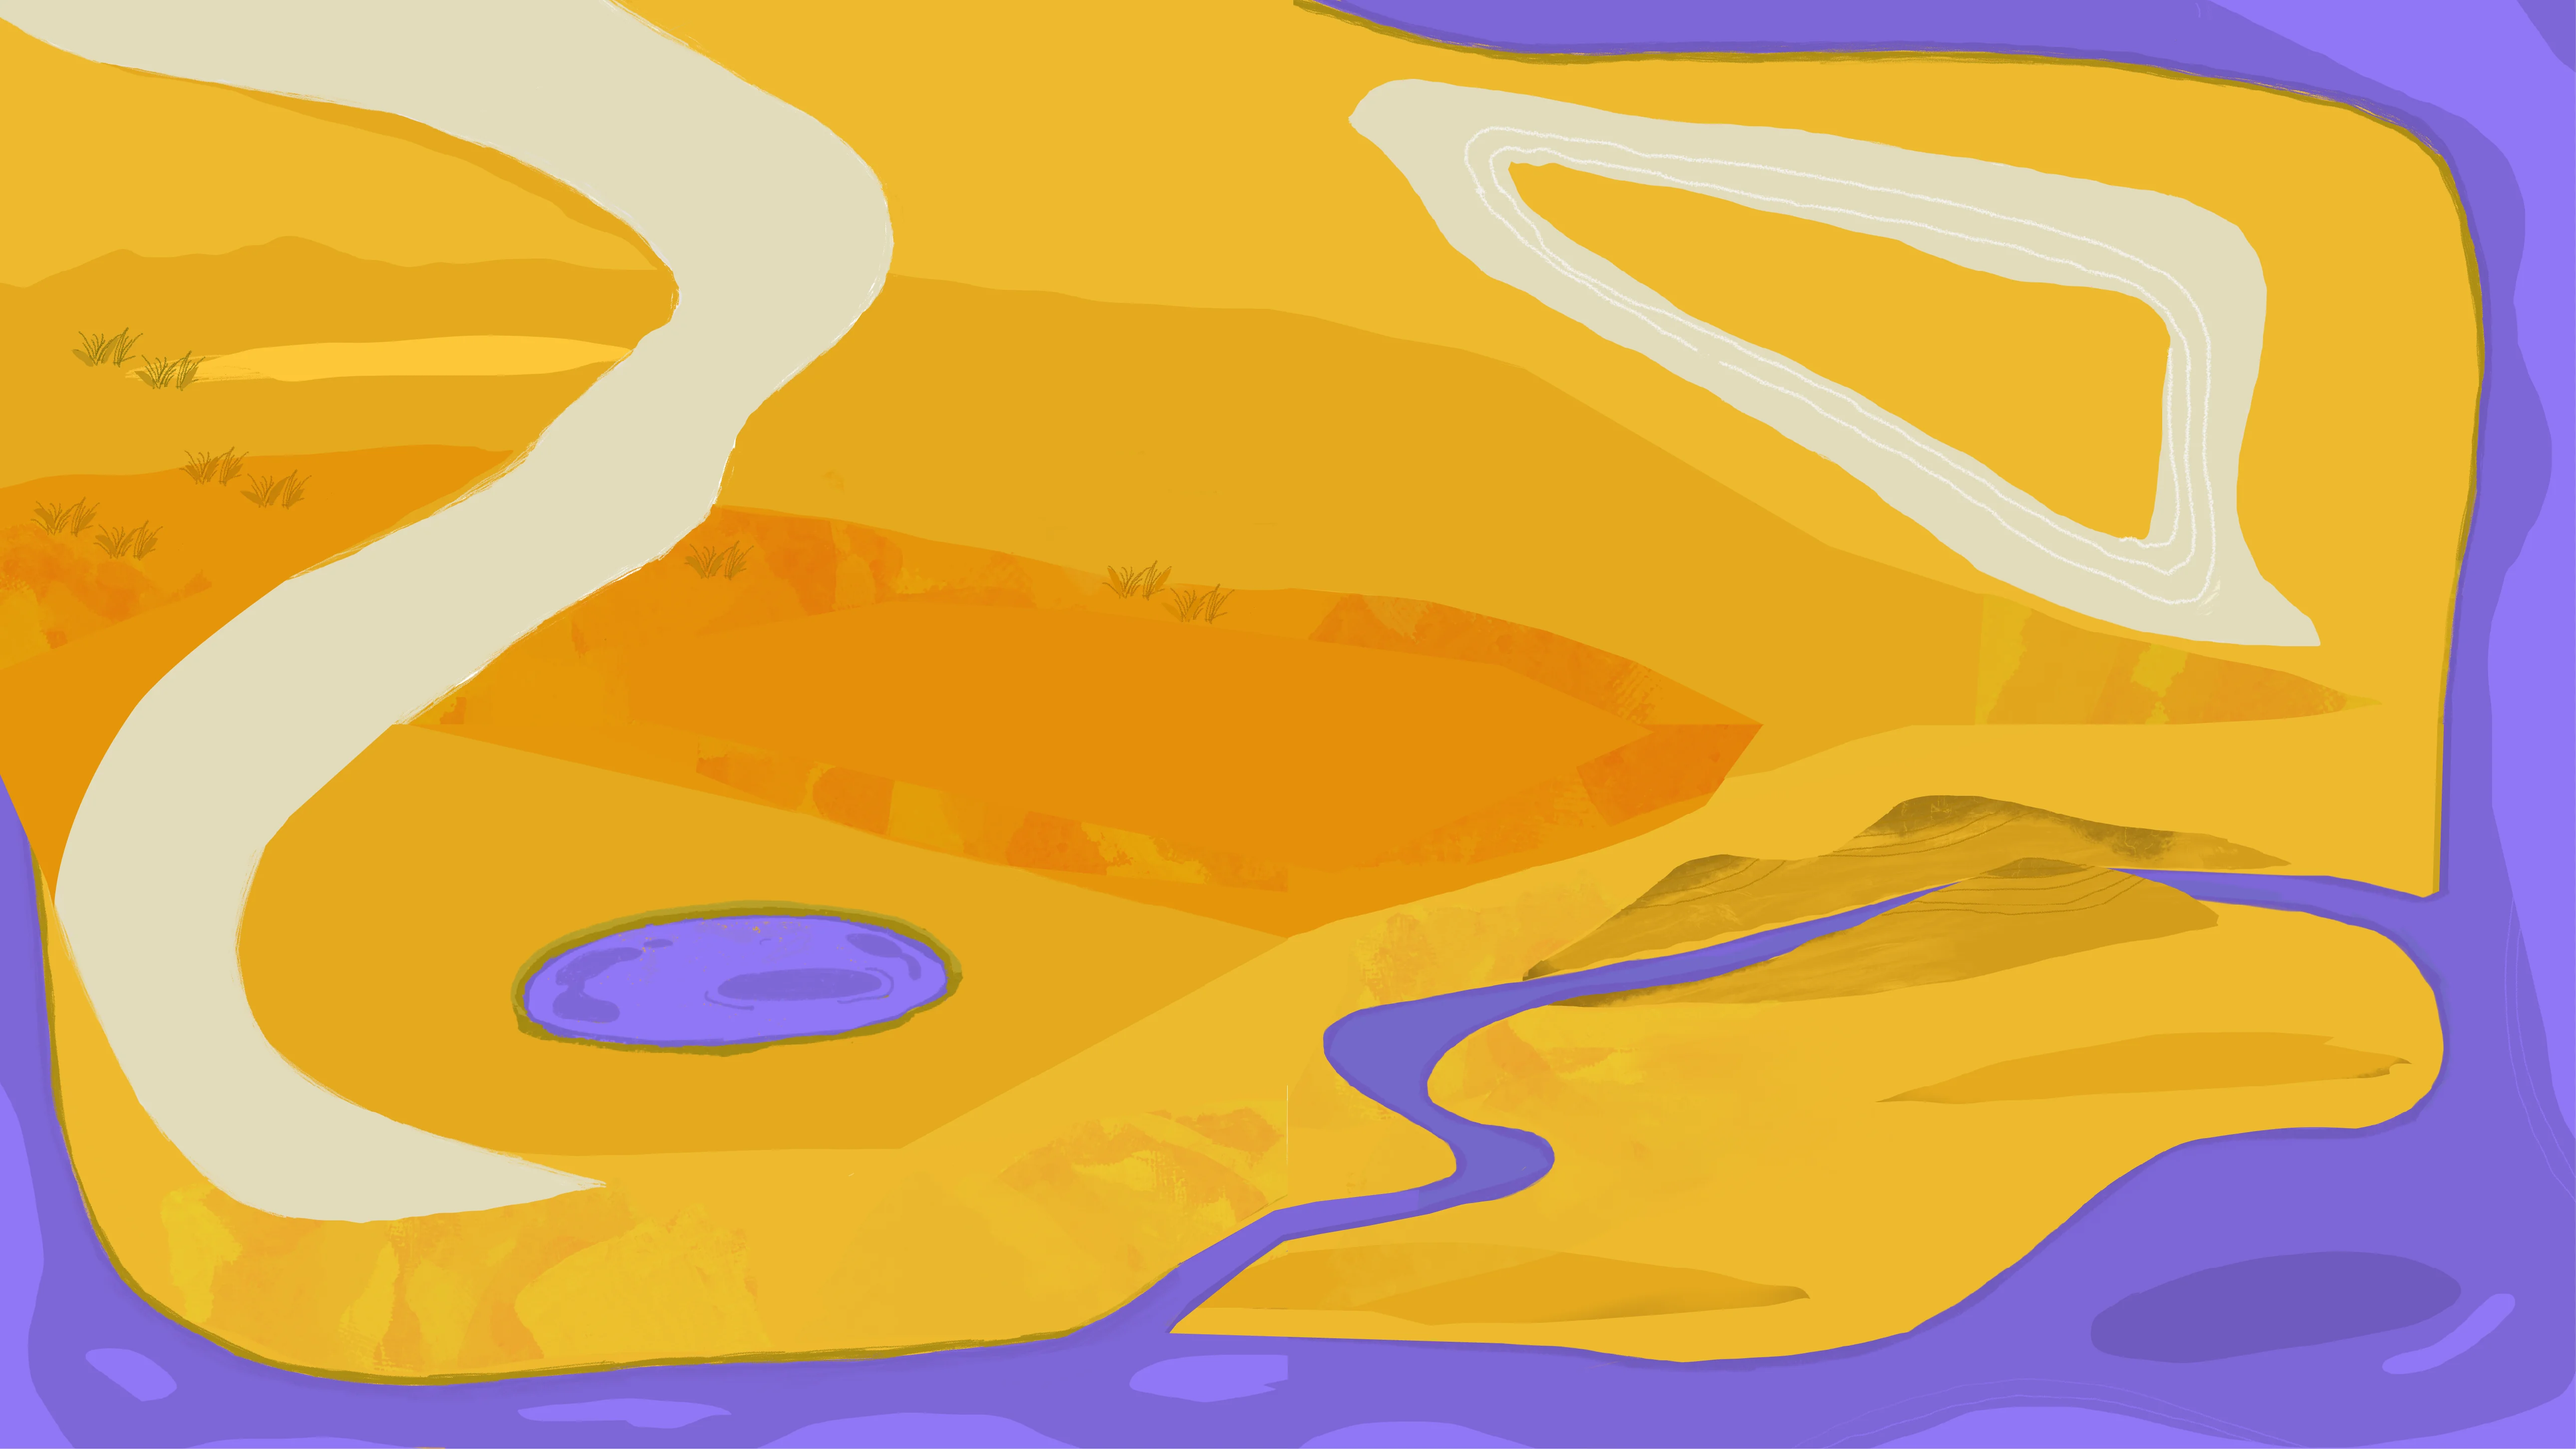
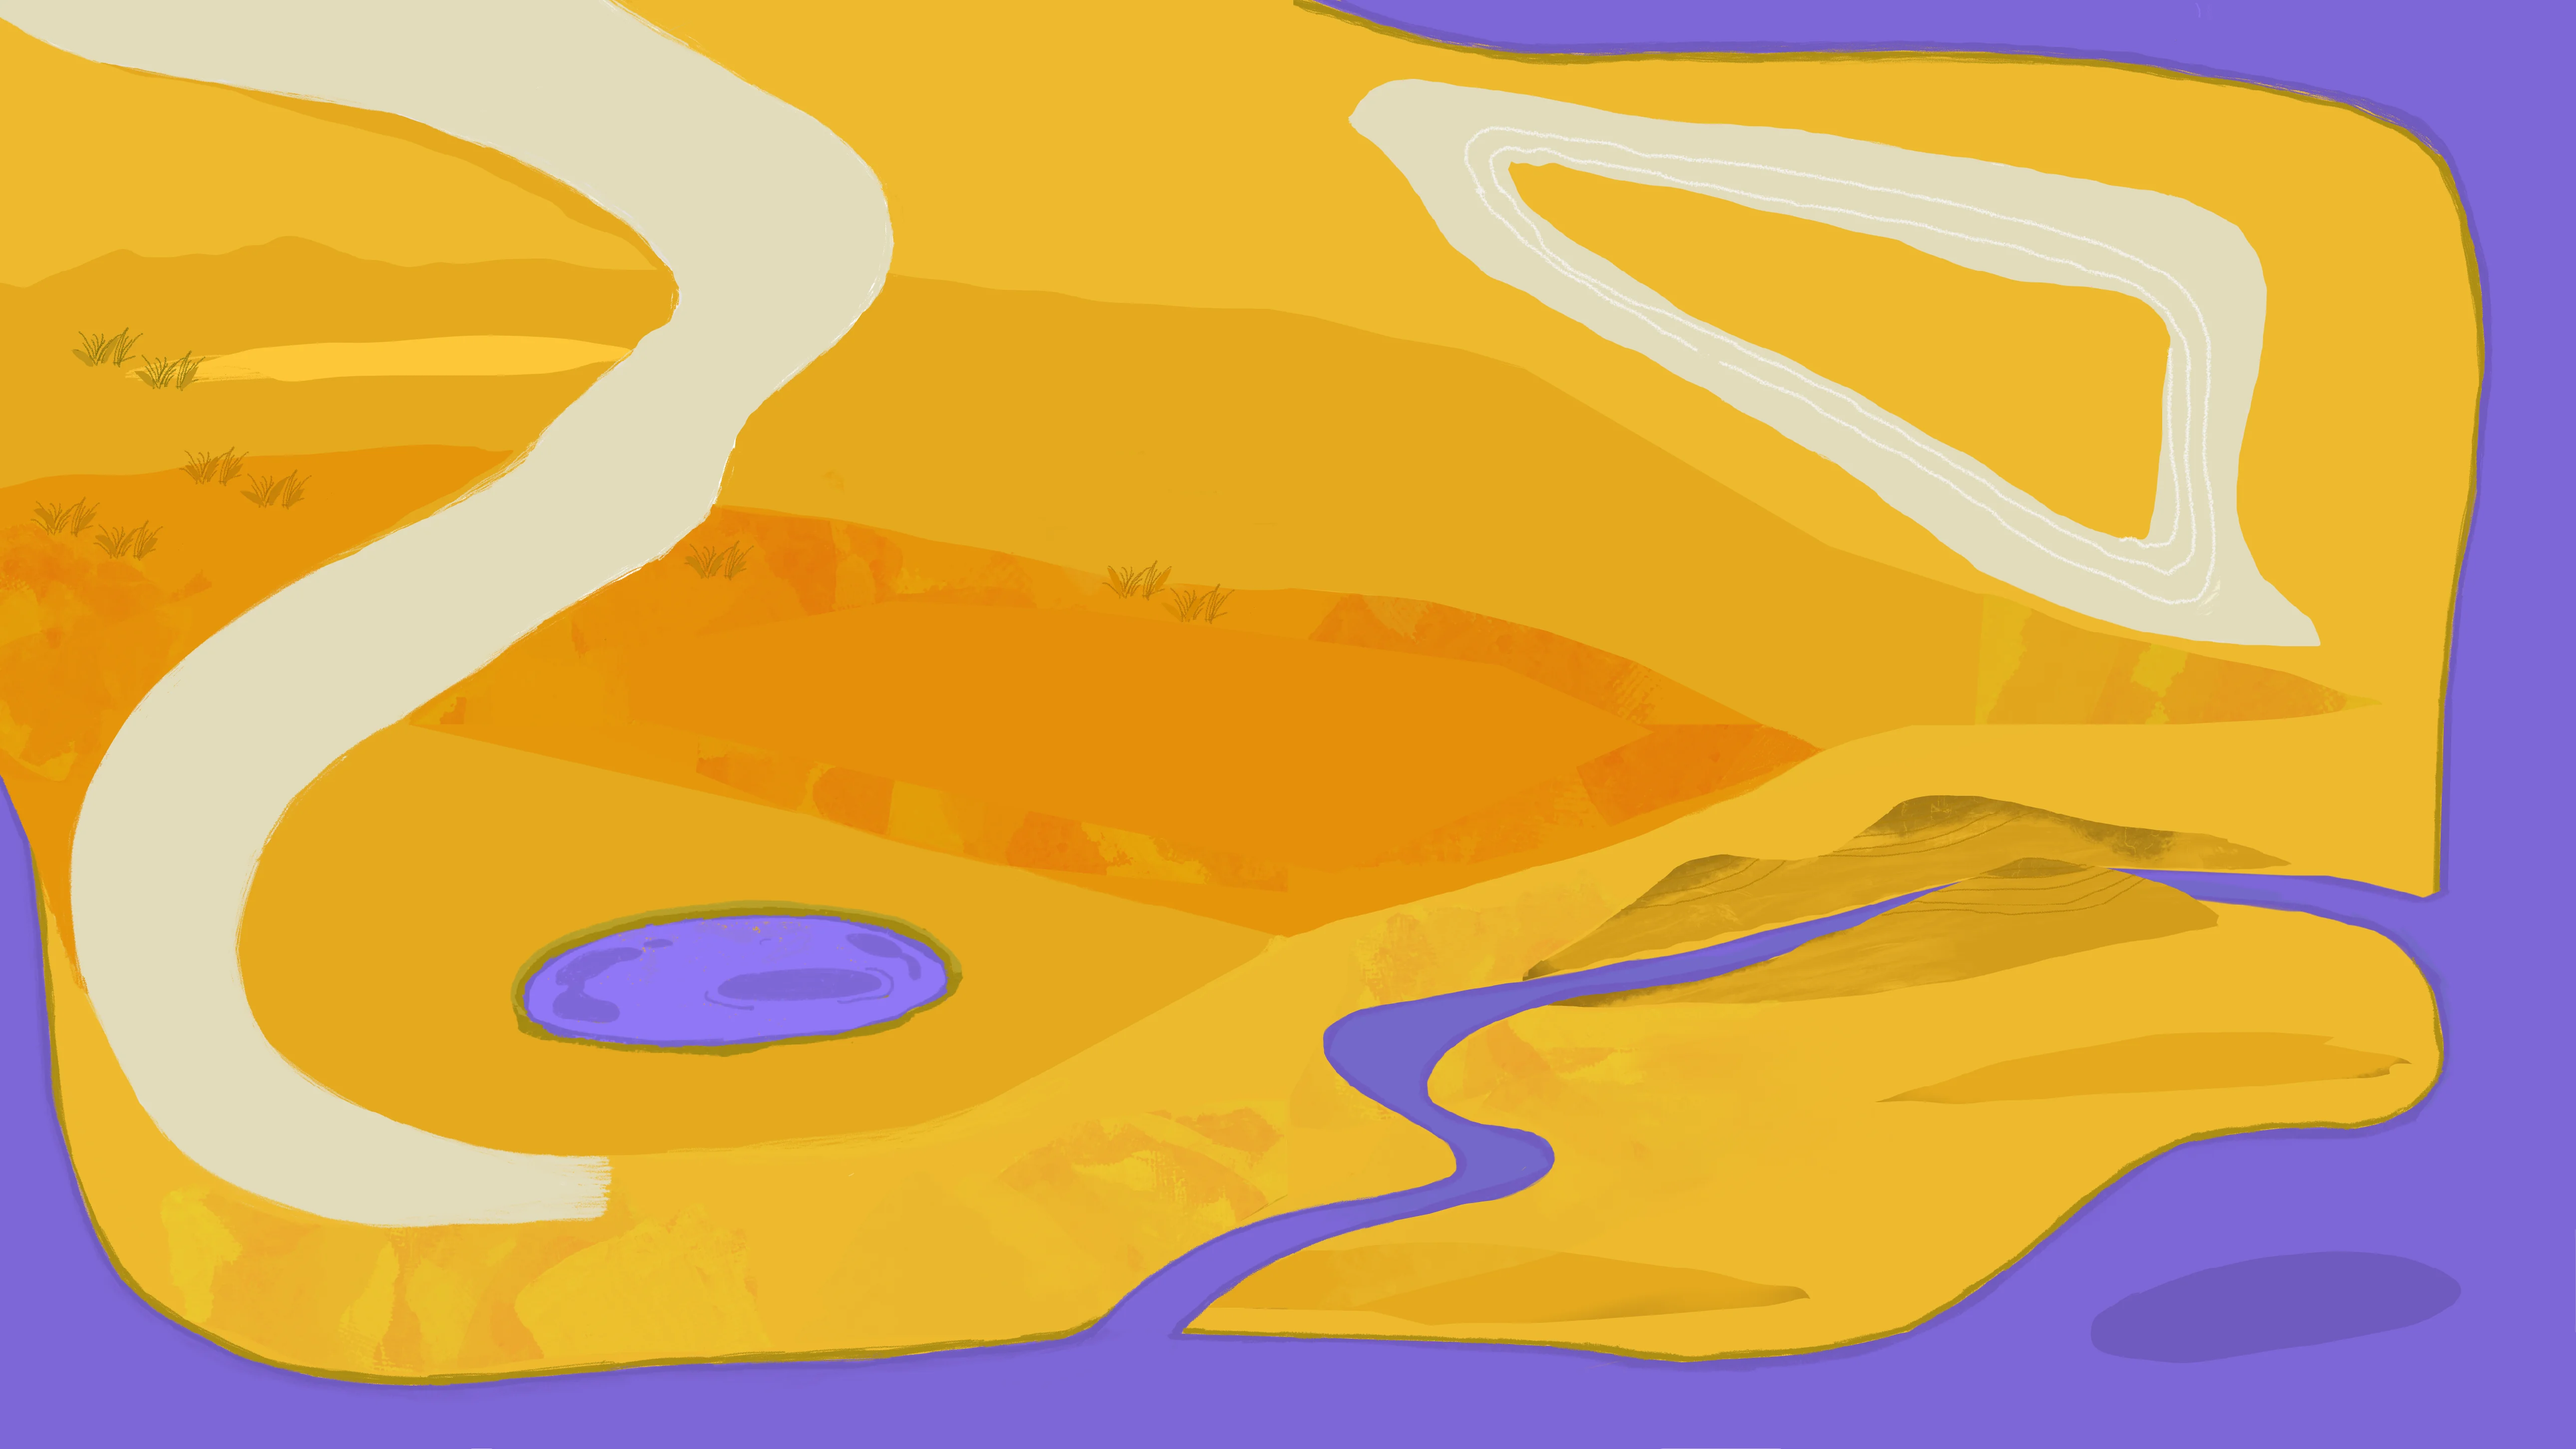
Add assets to folder

diff --git a/tools/convert_to_webp.js b/tools/convert_to_webp.js
@@ -13,7 +13,8 @@ fs.readdirSync(inputDir)
     .filter(file => {
     const isPng = path.extname(file).toLowerCase() === '.png';
     const startsWithBg = file.toLowerCase().startsWith('background');
-    return isPng && startsWithBg;
+    const startsWithWa = file.toLocaleLowerCase().startsWith('water');
+    return isPng && startsWithBg || startsWithWa;
     })
     .forEach(file => {
     const inputPath = path.join(inputDir, file);
